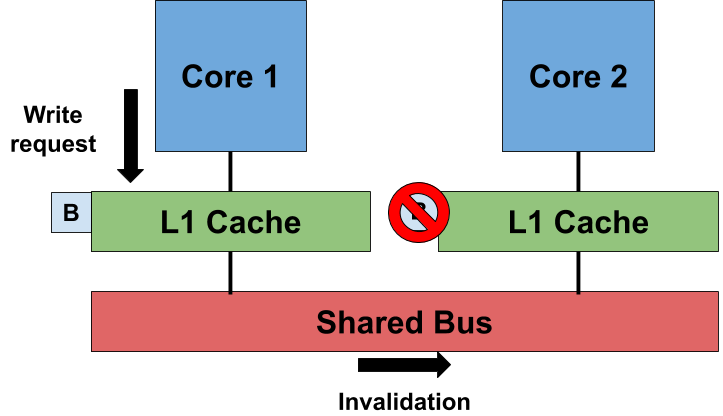
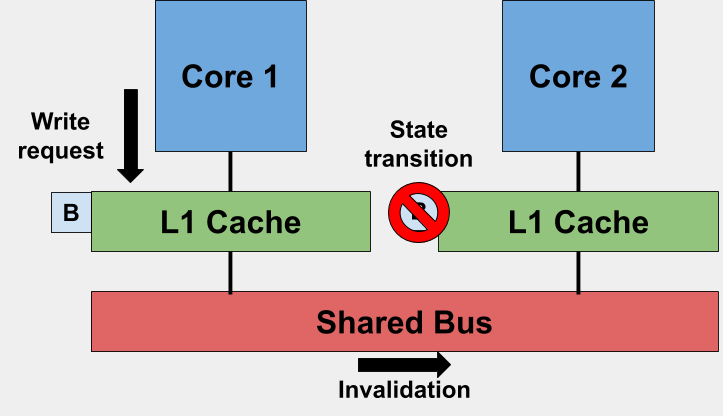
add image with new background

Changed region(s): [[0.4564, 0.9062, 0.6694, 1.0], [0.0, 0.25, 0.1521, 0.4062], [0.4869, 0.2812, 0.6694, 0.4062]]

diff --git a/_posts/2019-12-28-false-sharing-tutorial.md b/_posts/2019-12-28-false-sharing-tutorial.md
@@ -20,6 +20,8 @@ Why is sharing data so bad? It's not! If we have many threads that are only read
 
 ### Cache Coherence
 
+![Invalidation of cache block on write](/assets/coherence.png)
+
 Cache coherence is often defined using two invariants, as taken from [A Primer on Memory Consistency and Cache Coherence](https://www.morganclaypool.com/doi/abs/10.2200/S00346ED1V01Y201104CAC016):
 
 1. Single-Writer, Multiple Reader Invariant: For a memory location *A*, at any given logical time, there exists only a single core that may write to *A* (and read from *A*), or some number of cores (maybe 0) that may only read *A*.
